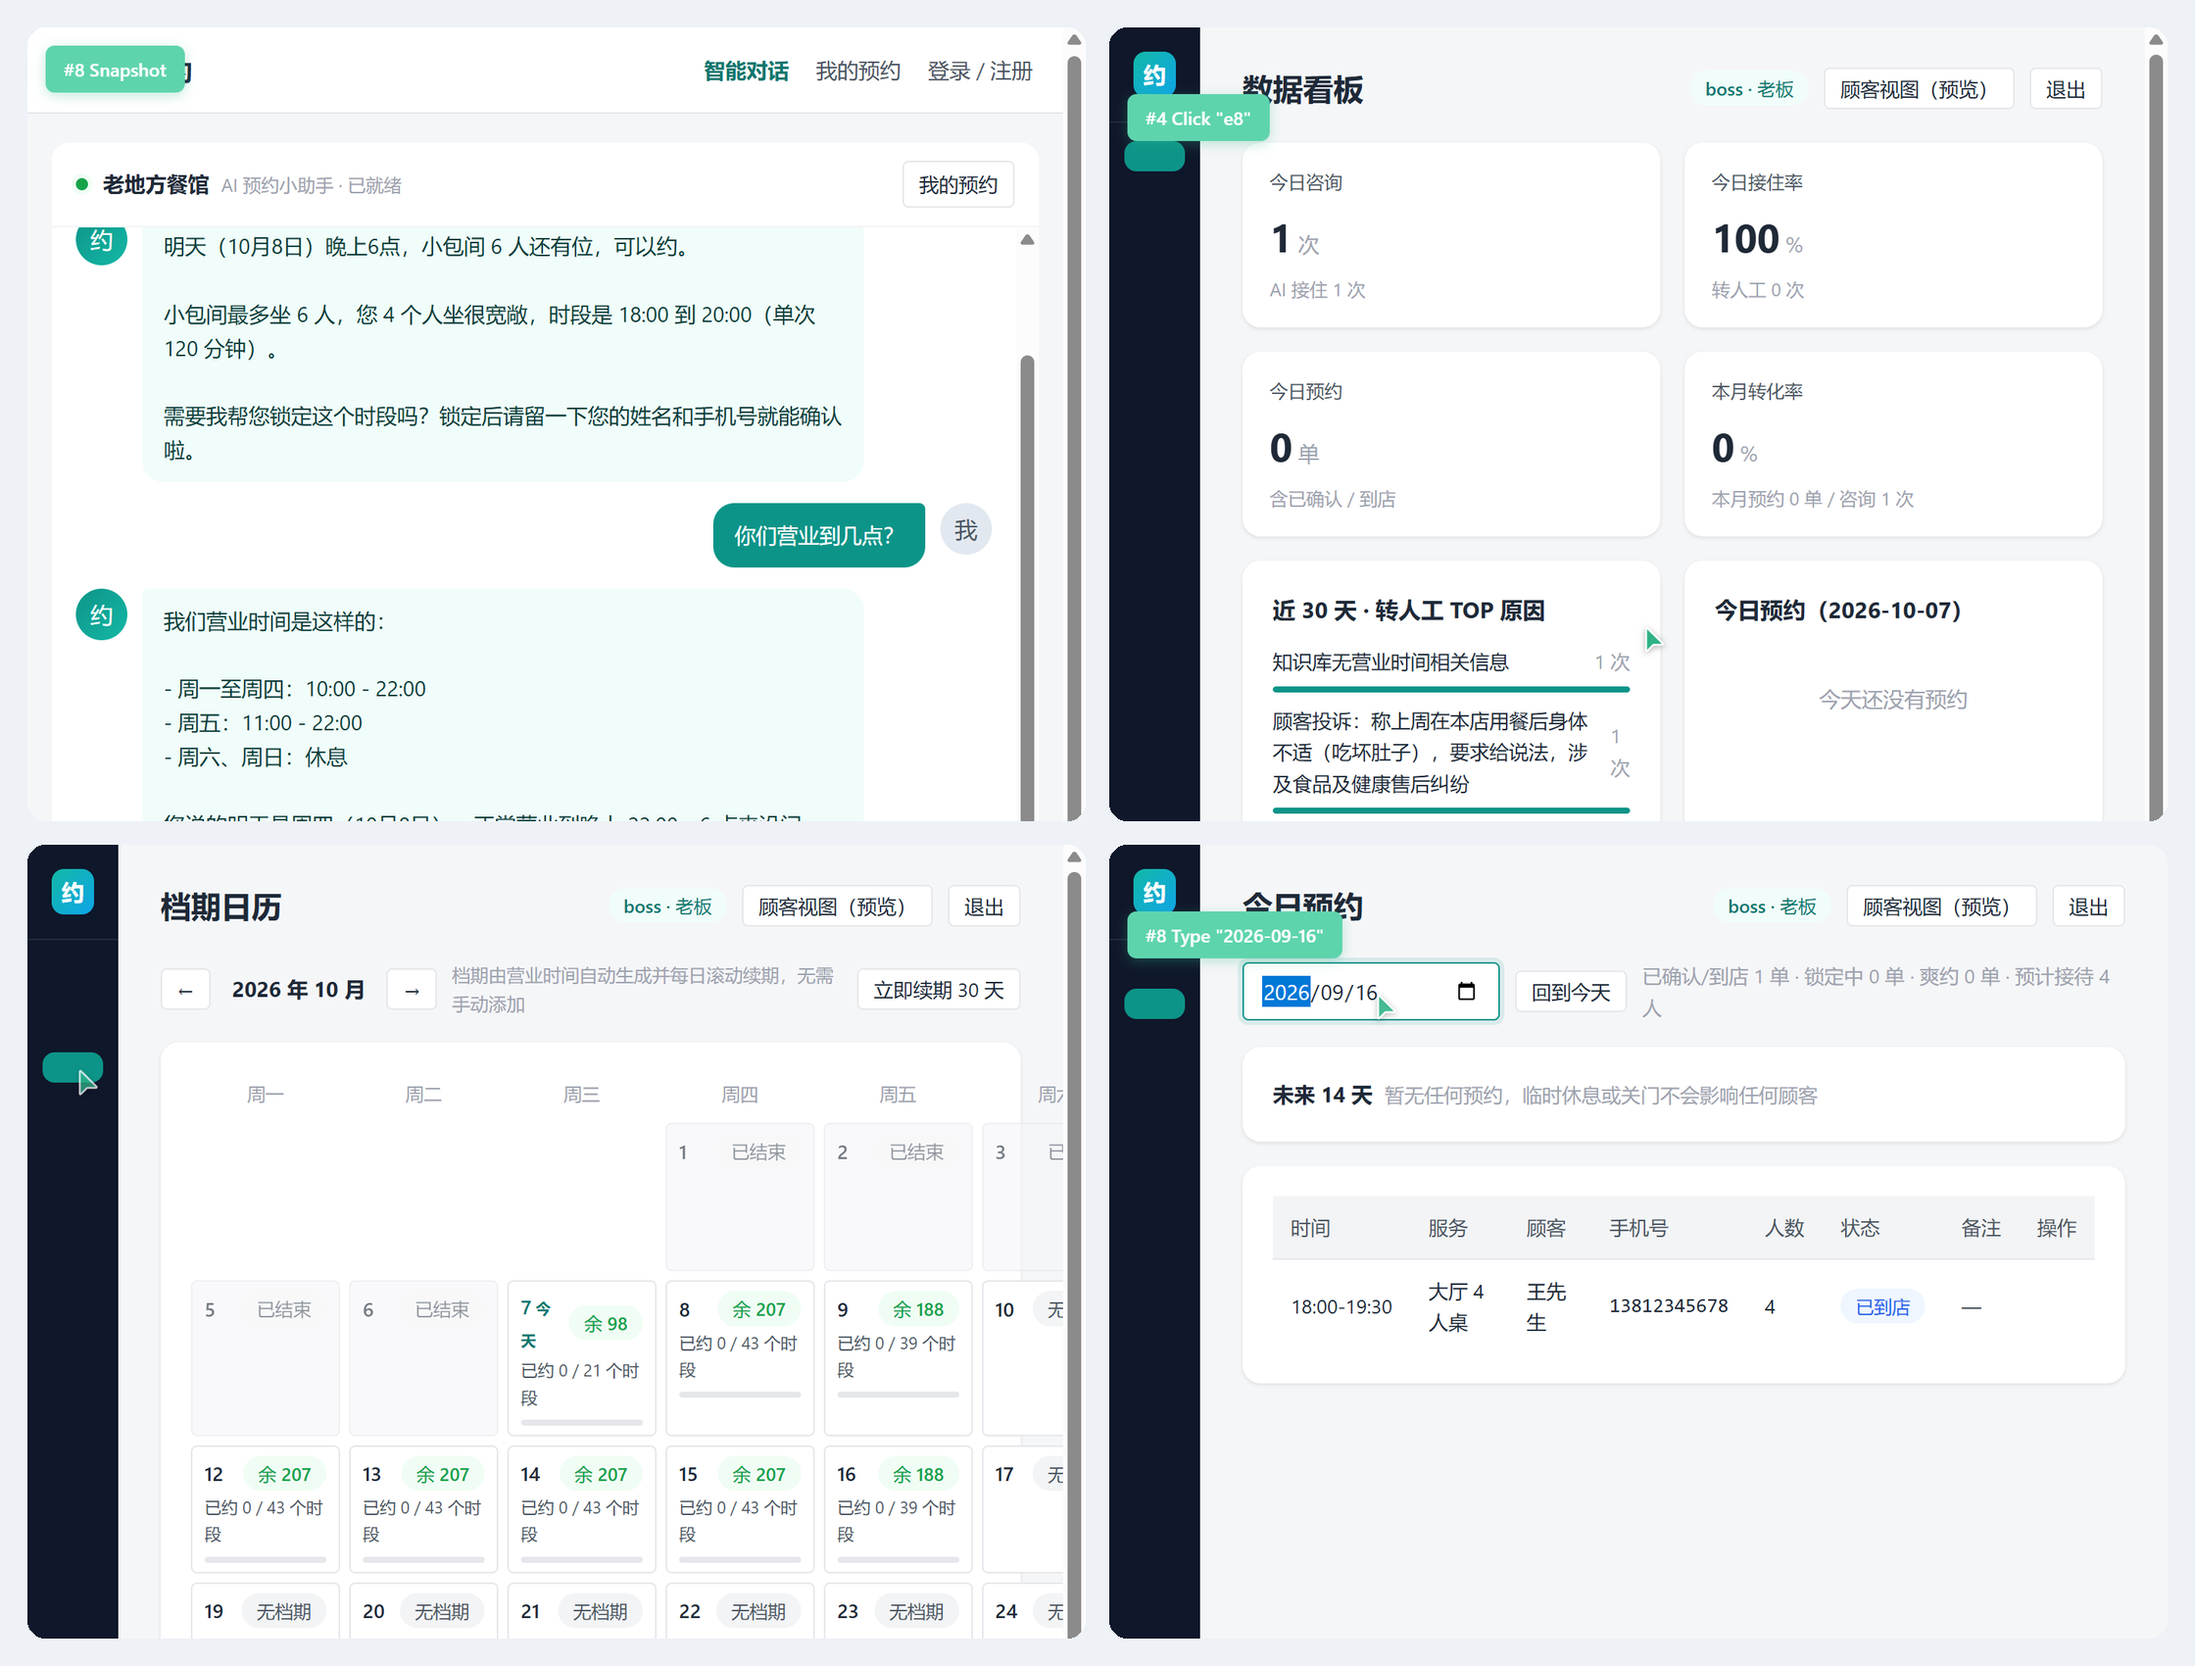
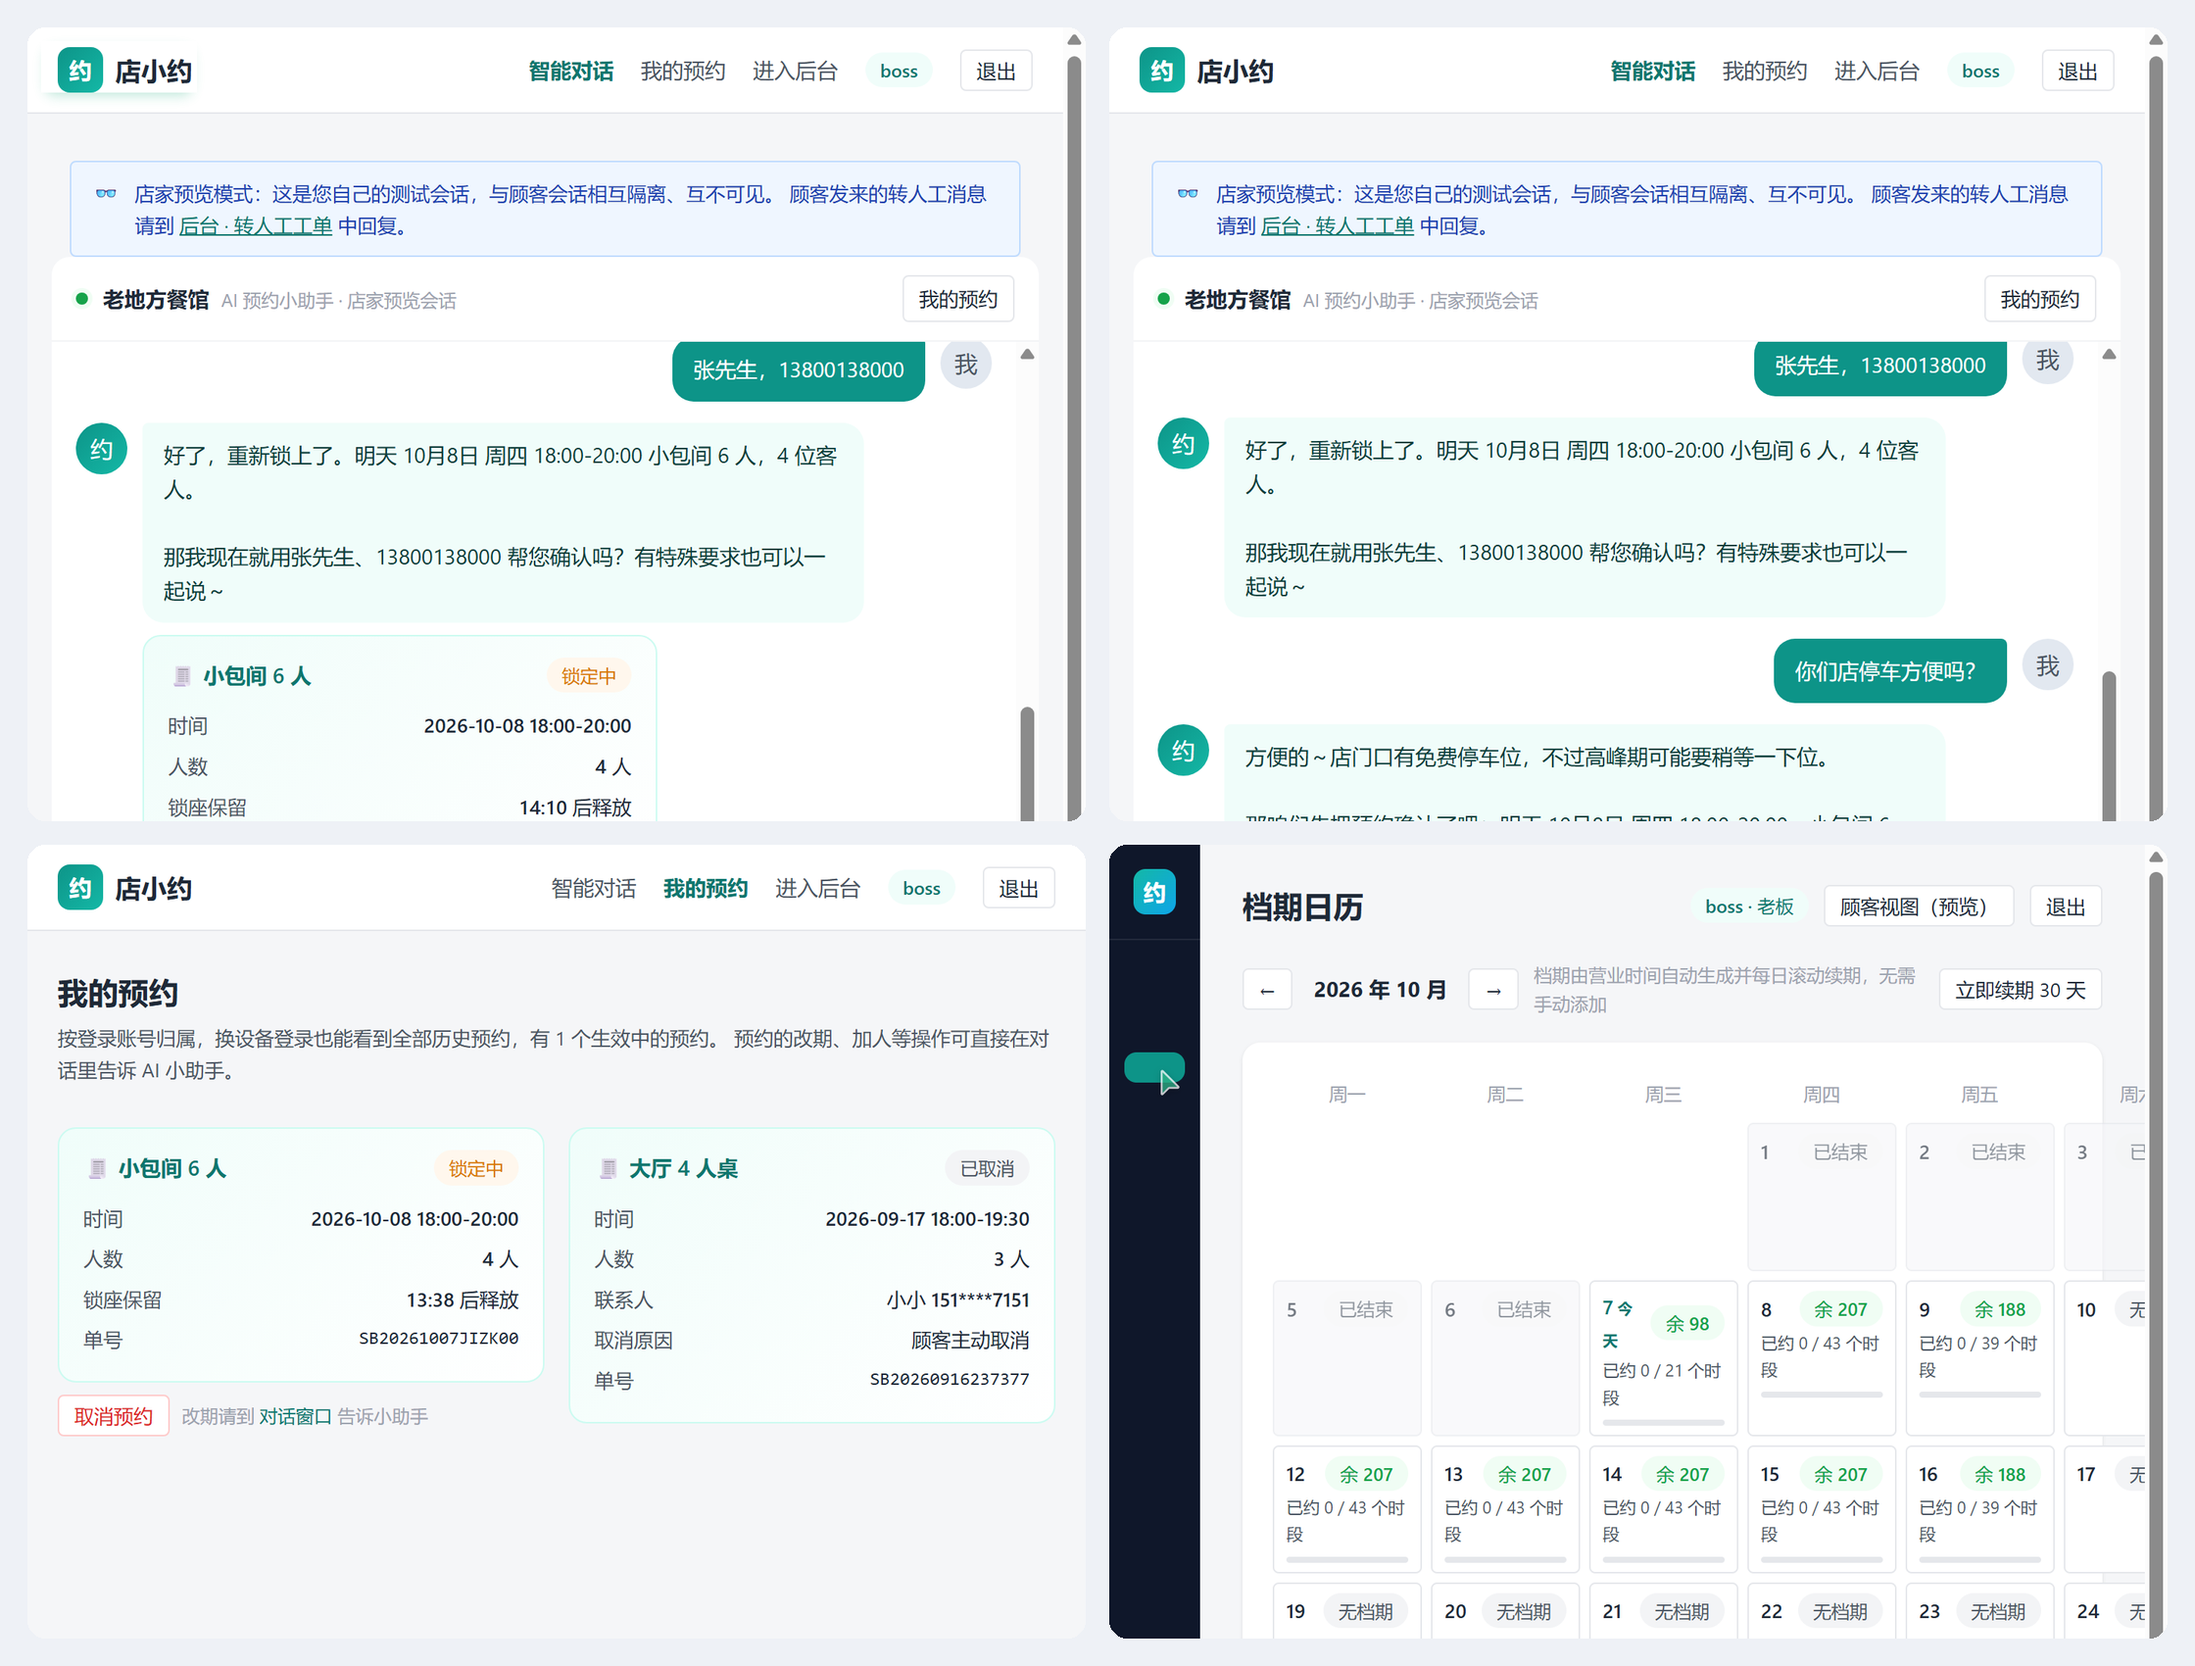
更新界面展示：修正技术栈标签，新增智能功能截图

diff --git a/docs/界面展示.md b/docs/界面展示.md
@@ -1,6 +1,8 @@
 # 店小约 · 界面展示
 
-> 面向小微商户的 AI 预约助手。以下均为系统真实运行截图。
+> 面向小微商户的 AI 预约助手。DeepSeek Agent 工具调用自动查档期、锁座位、生成预约单，知识库问答覆盖常见咨询。以下均为系统真实运行截图。
+
+**技术栈**：React 18 · Spring Boot 3 · MySQL 8 · Redis · DeepSeek Agent
 
 ## 界面总览
 
@@ -8,30 +10,26 @@
 
 ## 分页截图
 
-### 1. 顾客对话入口 · AI 预约
+### 1. 智能对话 · AI 预约全流程（自动锁座）
 
-![顾客对话入口 · AI 预约](images/01-chat.png)
+![智能对话 · AI 预约全流程（自动锁座）](images/01-chat-full.png)
 
-### 2. 商家登录
+### 2. AI 知识问答 · 咨询与预约引导
 
-![商家登录](images/02-login.png)
+![AI 知识问答 · 咨询与预约引导](images/02-knowledge-qa.png)
 
-### 3. 经营数据看板
+### 3. 我的预约 · 状态卡片
 
-![经营数据看板](images/03-dashboard.png)
+![我的预约 · 状态卡片](images/03-my-bookings.png)
 
 ### 4. 档期管理
 
 ![档期管理](images/04-slots.png)
 
-### 5. 预约列表
+### 5. 服务项目管理
 
-![预约列表](images/05-bookings.png)
+![服务项目管理](images/05-items.png)
 
-### 6. 服务项目管理
+### 6. 商家知识库维护
 
-![服务项目管理](images/06-items.png)
-
-### 7. 智能知识库
-
-![智能知识库](images/07-knowledge.png)
+![商家知识库维护](images/06-knowledge.png)
